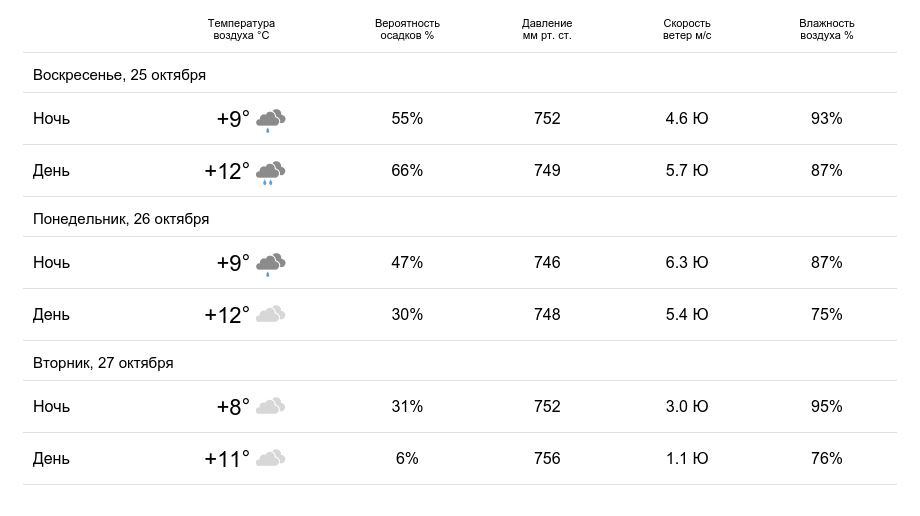
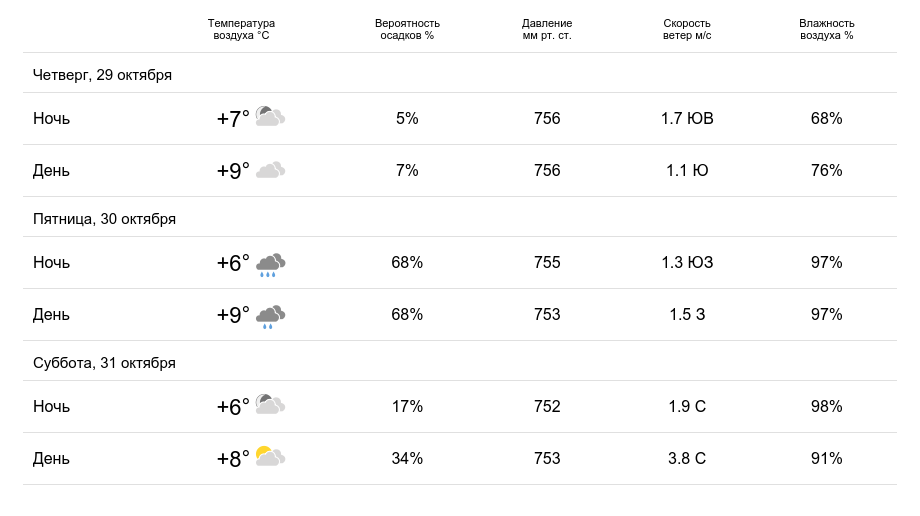
avg reports

diff --git a/app/helpers.php b/app/helpers.php
@@ -1277,64 +1277,59 @@ function subscribers_count_by_date(
     }
 
     /*
-     * Состояние на начало периода.
-     */
+    * Состояние на начало периода
+    * (до применения изменений первого дня).
+    */
     $start = $current;
-
-    $dailySum = [
-        0,
-        0,
-        0,
-    ];
-
-    $days = 0;
 
     $day = $dateStart;
 
+    /*
+    * Применяем изменения первого дня периода.
+    */
+    $firstDayKey = $day->format('Y-m-d');
+
+    if (isset($dailyChanges[$firstDayKey])) {
+        for ($i = 0; $i < 3; $i++) {
+            $current[$i] += $dailyChanges[$firstDayKey][$i];
+        }
+    }
+
+    /*
+    * Количество абонентов на первый день периода.
+    */
+    $firstDay = $current;
+
+    /*
+    * Применяем изменения остальных дней.
+    */
+    $day = $day->modify('+1 day');
+
     while ($day <= $dateEnd) {
-        $key = $day->format(
-            'Y-m-d'
-        );
+        $key = $day->format('Y-m-d');
 
         if (isset($dailyChanges[$key])) {
             for ($i = 0; $i < 3; $i++) {
-                $current[$i] +=
-                    $dailyChanges[$key][$i];
+                $current[$i] += $dailyChanges[$key][$i];
             }
         }
 
-        for ($i = 0; $i < 3; $i++) {
-            $dailySum[$i] +=
-                $current[$i];
-        }
-
-        $days++;
-
-        $day = $day->modify(
-            '+1 day'
-        );
+        $day = $day->modify('+1 day');
     }
 
+    /*
+    * Количество абонентов на последний день периода.
+    */
     $end = $current;
 
+    /*
+    * Среднее количество абонентов:
+    * (первый день + последний день) / 2.
+    */
     $avg = [
-        $days > 0
-            ? (int) round(
-                $dailySum[0] / $days
-            )
-            : $start[0],
-
-        $days > 0
-            ? (int) round(
-                $dailySum[1] / $days
-            )
-            : $start[1],
-
-        $days > 0
-            ? (int) round(
-                $dailySum[2] / $days
-            )
-            : $start[2],
+        (int) round(($firstDay[0] + $end[0]) / 2),
+        (int) round(($firstDay[1] + $end[1]) / 2),
+        (int) round(($firstDay[2] + $end[2]) / 2),
     ];
 
     /*
@@ -1458,11 +1453,12 @@ function subscribers_count_by_date(
             + $end[2]
             + $iptvEnd,
 
-        'total_avg' =>
-            $avg[0]
-            + $avg[1]
-            + $avg[2]
-            + $iptvAvg,
+        'total_avg' => (int) round(
+            (
+                array_sum($firstDay)
+                + array_sum($end)
+            ) / 2
+        ) + $iptvAvg,
     ];
 }
 

diff --git a/app/ReaderService.php b/app/ReaderService.php
@@ -719,7 +719,7 @@ final class ReaderService
 
         $options = '';
 
-        if ($reader !== 10 && $reader !== 16) {
+        if ($reader !== 3) {
             $options = ' -S';
         }
 
